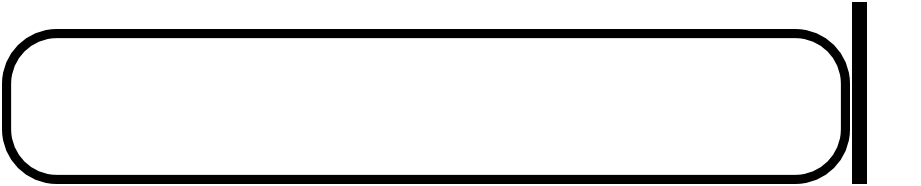
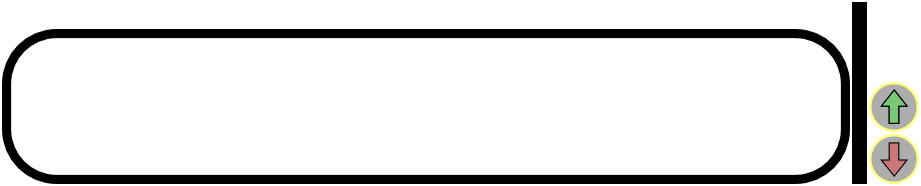
#33 Add basic UI buttons

Changed region(s): [[0.9425, 0.4301, 1.0, 0.9946]]

diff --git a/core/src/com/railwaygames/sleddingsmash/screens/PlayLevelScreen.java b/core/src/com/railwaygames/sleddingsmash/screens/PlayLevelScreen.java
@@ -34,9 +34,14 @@ import com.badlogic.gdx.physics.bullet.dynamics.btConstraintSolver;
 import com.badlogic.gdx.physics.bullet.dynamics.btDiscreteDynamicsWorld;
 import com.badlogic.gdx.physics.bullet.dynamics.btDynamicsWorld;
 import com.badlogic.gdx.physics.bullet.dynamics.btSequentialImpulseConstraintSolver;
+import com.badlogic.gdx.scenes.scene2d.InputEvent;
+import com.badlogic.gdx.scenes.scene2d.InputListener;
+import com.badlogic.gdx.scenes.scene2d.Stage;
+import com.badlogic.gdx.scenes.scene2d.ui.Button;
 import com.badlogic.gdx.utils.Array;
 import com.badlogic.gdx.utils.Json;
 import com.badlogic.gdx.utils.UBJsonReader;
+import com.railwaygames.sleddingsmash.Constants;
 import com.railwaygames.sleddingsmash.Resources;
 import com.railwaygames.sleddingsmash.SleddingSmashEditor;
 import com.railwaygames.sleddingsmash.entity.GameObject;
@@ -59,6 +64,7 @@ public class PlayLevelScreen implements ScreenFeedback {
     private String levelToLoad;
     private String renderResult = null;
     private GameState gs;
+    private HudButtons hudButtons;
 
     public PlayLevelScreen(Resources resources) {
         this.resources = resources;
@@ -85,15 +91,19 @@ public class PlayLevelScreen implements ScreenFeedback {
 
         gs = new GameState();
         gs.buildLevel(level);
+
+        hudButtons = new HudButtons(gs, resources);
     }
 
     @Override
     public void render(float delta) {
         gs.render();
+        hudButtons.render();
     }
 
     @Override
     public void resize(int width, int height) {
+        hudButtons.resize(width, height);
 
     }
 
@@ -111,11 +121,76 @@ public class PlayLevelScreen implements ScreenFeedback {
     public void hide() {
         gs.dispose();
         gs = null;
+
+        hudButtons.dispose();
+        hudButtons = null;
     }
 
     @Override
     public void dispose() {
 
+    }
+
+    private static class HudButtons {
+
+        private Stage stage;
+        private Button upButton;
+        private Button downButton;
+        private GameState gs;
+
+        public HudButtons(GameState gs, Resources resources1) {
+            this.gs = gs;
+            stage = new Stage();
+
+            upButton = new Button(resources1.skin, Constants.UI.UP_BUTTON);
+            stage.addActor(upButton);
+
+            downButton = new Button(resources1.skin, Constants.UI.DOWN_BUTTON);
+            stage.addActor(downButton);
+
+            Gdx.input.setInputProcessor(stage);
+        }
+
+        public void render() {
+            float delta = Gdx.graphics.getDeltaTime();
+
+            stage.act(delta);
+            stage.draw();
+        }
+
+        public void resize(int width, int height) {
+            upButton.setBounds(width * 0.89f, height * 0.25f, width * 0.08f, height * 0.12f);
+            upButton.addListener(new InputListener() {
+                @Override
+                public boolean touchDown(InputEvent event, float x, float y, int pointer, int button) {
+                    gs.setAccelerate(true);
+                    return true;
+                }
+
+                @Override
+                public void touchUp(InputEvent event, float x, float y, int pointer, int button) {
+                    gs.setAccelerate(false);
+                }
+            });
+            downButton.setBounds(width * 0.89f, height * 0.07f, width * 0.08f, height * 0.12f);
+            downButton.addListener(new InputListener() {
+                @Override
+                public boolean touchDown(InputEvent event, float x, float y, int pointer, int button) {
+                    gs.setDecelerate(true);
+                    return true;
+                }
+
+                @Override
+                public void touchUp(InputEvent event, float x, float y, int pointer, int button) {
+                    gs.setDecelerate(false);
+                }
+            });
+        }
+
+        public void dispose() {
+            stage.dispose();
+            stage = null;
+        }
     }
 
     private static class GameState {
@@ -234,7 +309,7 @@ public class PlayLevelScreen implements ScreenFeedback {
             this.treeModels = new HashMap<String, Model>();
             UBJsonReader jsonReader = new UBJsonReader();
             G3dModelLoader modelLoader = new G3dModelLoader(jsonReader);
-            treeModels.put("tree",modelLoader.loadModel(Gdx.files.getFileHandle("data/tree.g3db", Files.FileType.Internal)));
+            treeModels.put("tree", modelLoader.loadModel(Gdx.files.getFileHandle("data/tree.g3db", Files.FileType.Internal)));
         }
 
         private void createPhysicsWorld() {
@@ -270,7 +345,7 @@ public class PlayLevelScreen implements ScreenFeedback {
 
             camController = new CameraInputController(cam);
             camController.translateUnits = 200.0f;
-            Gdx.input.setInputProcessor(camController);
+//            Gdx.input.setInputProcessor(camController);
         }
 
         public void dispose() {
@@ -303,6 +378,8 @@ public class PlayLevelScreen implements ScreenFeedback {
             modelBatch.end();
         }
 
+        private boolean accelerate = false;
+        private boolean decelerate = false;
         private void applyForce() {
             // TODO possibly scale based on Linear velocity of the object.
             if (Gdx.input.isPeripheralAvailable(Input.Peripheral.Accelerometer)) {
@@ -312,33 +389,41 @@ public class PlayLevelScreen implements ScreenFeedback {
                     sphere.getBody().applyCentralForce(new Vector3(-9f, 0, 0));
                 } else if (Gdx.input.isKeyPressed(Input.Keys.DPAD_RIGHT)) {
                     sphere.getBody().applyCentralForce(new Vector3(9f, 0, 0));
-                } else if (Gdx.input.isKeyPressed(Input.Keys.DPAD_UP)) {
+                } else if (Gdx.input.isKeyPressed(Input.Keys.DPAD_UP) || accelerate) {
                     sphere.getBody().applyCentralForce(new Vector3(0, 0, -5f));
-                } else if (Gdx.input.isKeyPressed(Input.Keys.DPAD_DOWN)) {
+                } else if (Gdx.input.isKeyPressed(Input.Keys.DPAD_DOWN) || decelerate) {
                     sphere.getBody().applyCentralForce(new Vector3(0, 0, 2f));
                 }
             }
         }
 
+        public void setAccelerate(boolean accelerate) {
+            this.accelerate = accelerate;
+        }
+
+        public void setDecelerate(boolean decelerate) {
+            this.decelerate = decelerate;
+        }
+
         class SSContactListener extends ContactListener {
             @Override
             public void onContactStarted(btCollisionObject colObj0, btCollisionObject colObj1) {
-                if(collision(GameObject.GameObjectType.TREE, colObj0, colObj1) && collision(GameObject.GameObjectType.CHARACTER, colObj0, colObj1)){
+                if (collision(GameObject.GameObjectType.TREE, colObj0, colObj1) && collision(GameObject.GameObjectType.CHARACTER, colObj0, colObj1)) {
                     btCollisionObject tree = findObject(GameObject.GameObjectType.TREE, colObj0, colObj1);
                     Vector3 velocity = sphere.getBody().getLinearVelocity();
-                    sphere.getBody().applyCentralForce(new Vector3(0,0,-100000));
+                    sphere.getBody().applyCentralForce(new Vector3(0, 0, -100000));
                 }
             }
 
-            private btCollisionObject findObject(GameObject.GameObjectType entity, btCollisionObject obj1, btCollisionObject obj2){
-                if(((GameObject)obj1.userData).gameObjectType == entity){
+            private btCollisionObject findObject(GameObject.GameObjectType entity, btCollisionObject obj1, btCollisionObject obj2) {
+                if (((GameObject) obj1.userData).gameObjectType == entity) {
                     return obj1;
                 }
                 return obj2;
             }
 
-            private boolean collision(GameObject.GameObjectType entity, btCollisionObject obj1, btCollisionObject obj2){
-                return ((GameObject)obj1.userData).gameObjectType == entity || ((GameObject)obj2.userData).gameObjectType ==entity;
+            private boolean collision(GameObject.GameObjectType entity, btCollisionObject obj1, btCollisionObject obj2) {
+                return ((GameObject) obj1.userData).gameObjectType == entity || ((GameObject) obj2.userData).gameObjectType == entity;
             }
         }
     }

diff --git a/core/src/com/railwaygames/sleddingsmash/UISkin.java b/core/src/com/railwaygames/sleddingsmash/UISkin.java
@@ -8,6 +8,7 @@ import com.badlogic.gdx.graphics.g2d.TextureAtlas.AtlasRegion;
 import com.badlogic.gdx.scenes.scene2d.ui.Button;
 import com.badlogic.gdx.scenes.scene2d.ui.Skin;
 import com.badlogic.gdx.scenes.scene2d.utils.NinePatchDrawable;
+import com.badlogic.gdx.scenes.scene2d.utils.TextureRegionDrawable;
 
 public class UISkin extends Skin {
 
@@ -37,6 +38,14 @@ public class UISkin extends Skin {
         {
             NinePatchDrawable trd = new NinePatchDrawable(createNinePatch(menusAtlas.findRegion("button_clear")));
             add(Constants.UI.CLEAR_BUTTON, new Button.ButtonStyle(trd, trd, trd));
+        }
+        {
+            TextureRegionDrawable arrow = new TextureRegionDrawable(menusAtlas.findRegion("arrow_up"));
+            add(Constants.UI.UP_BUTTON, new Button.ButtonStyle(arrow, arrow, arrow));
+        }
+        {
+            TextureRegionDrawable arrow = new TextureRegionDrawable(menusAtlas.findRegion("arrow_down"));
+            add(Constants.UI.DOWN_BUTTON, new Button.ButtonStyle(arrow, arrow, arrow));
         }
     }
 

diff --git a/core/src/com/railwaygames/sleddingsmash/GameLoop.java b/core/src/com/railwaygames/sleddingsmash/GameLoop.java
@@ -4,6 +4,7 @@ import com.badlogic.gdx.Game;
 import com.badlogic.gdx.Gdx;
 import com.badlogic.gdx.assets.AssetManager;
 import com.badlogic.gdx.graphics.GL20;
+import com.badlogic.gdx.graphics.g2d.TextureAtlas;
 import com.badlogic.gdx.graphics.glutils.ShaderProgram;
 import com.railwaygames.sleddingsmash.screens.LevelSelectScreen;
 import com.railwaygames.sleddingsmash.screens.MainMenuScreen;
@@ -30,6 +31,7 @@ public class GameLoop extends Game {
         Gdx.input.setCatchBackKey(true);
 
         AssetManager assetManager = new AssetManager();
+        assetManager.load("data/images/menus.atlas", TextureAtlas.class);
         assetManager.finishLoading();
 
         UISkin skin = new UISkin();

diff --git a/core/src/com/railwaygames/sleddingsmash/Constants.java b/core/src/com/railwaygames/sleddingsmash/Constants.java
@@ -15,6 +15,8 @@ public class Constants {
         public static final String X_LARGE_FONT = "xLargeFont";
 
         public static final String CLEAR_BUTTON = "clearButton";
+        public static final String UP_BUTTON = "upButton";
+        public static final String DOWN_BUTTON = "downButton";
     }
 
     public static class Colors {
